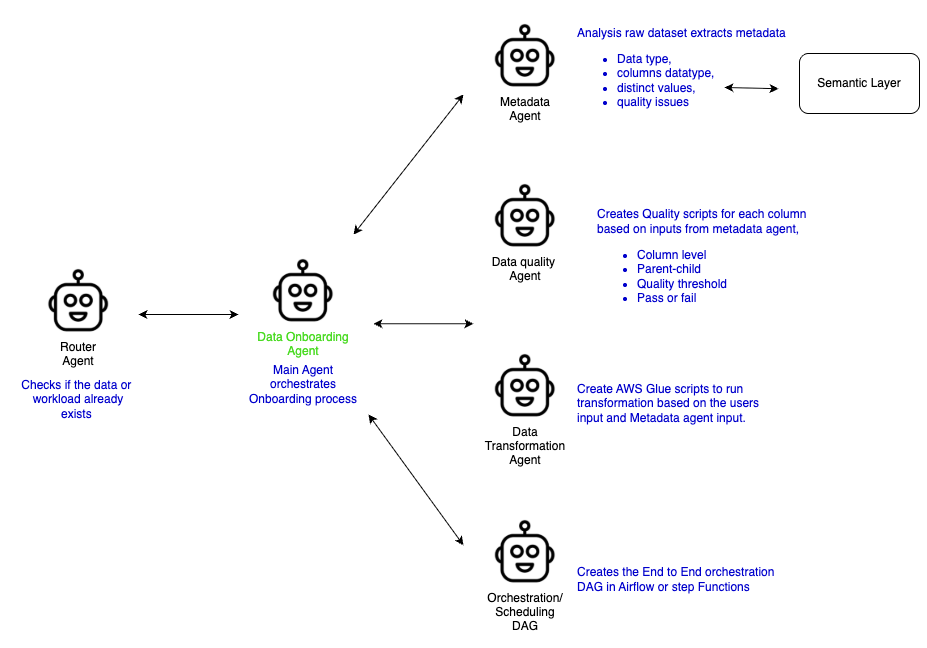
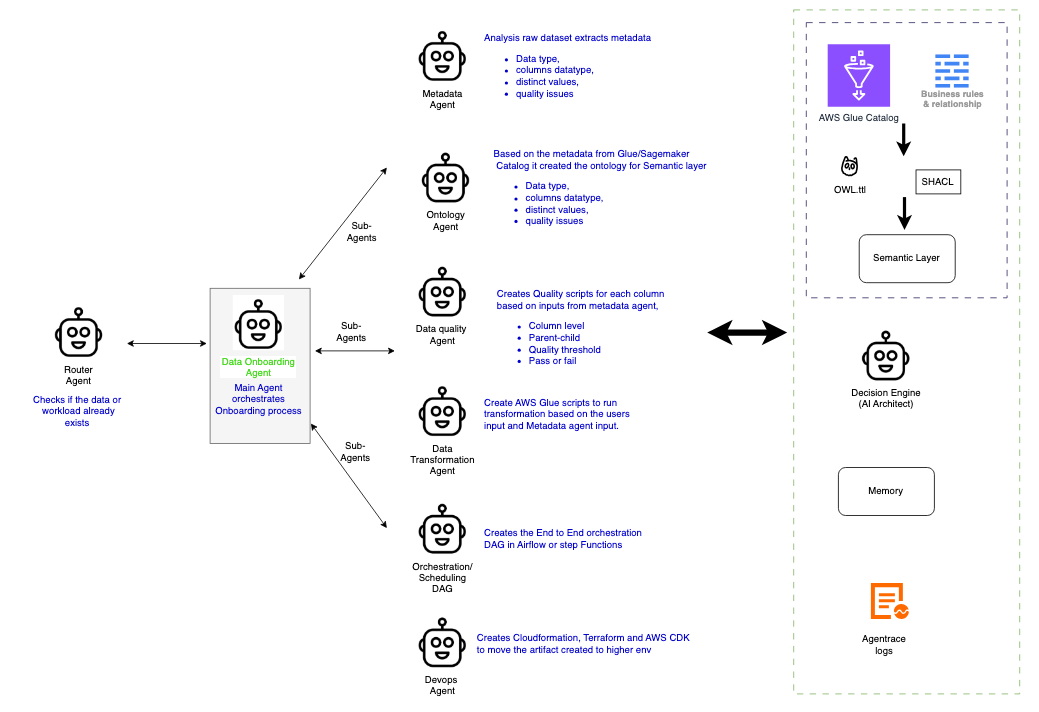
Update README inventory + swap agent workflow diagram
- Replace agent coordination diagram with updated version including DevOps
  and Ontology sub-agents and shared-services panel.
- Add claims, stocks, daily_sales to workload inventory and example table.
- Fix broken agentcore prompt paths (02-/03- numeric prefixes).
- Remove reference to non-existent data-analysis-agent directory.
- Align active-agent list in environment model with what's implemented.

diff --git a/README.md b/README.md
@@ -87,13 +87,15 @@ A user describes their data source in natural language. The **Data Onboarding Ag
 
 ![Data Onboarding Agent Workflow](docs/diagrams/data-onboarding-workflow.png)
 
-**The Data Onboarding Agent (center, green) orchestrates 4 specialized sub-agents:**
+**The Data Onboarding Agent (center) orchestrates specialized sub-agents. The Router Agent gates entry on the left; Glue Catalog, Semantic Layer (OWL/SHACL), Decision Engine, Memory, and Agentrace logs are shared services on the right.**
 
 1. **Router Agent** — Checks if the data or workload already exists in `workloads/`
 2. **Metadata Agent** — Analyzes raw dataset, extracts metadata (data types, column datatypes, distinct values, quality issues), stores business context in **Semantic Layer**
-3. **Data Quality Agent** — Creates quality scripts for each column based on metadata agent inputs (column-level checks, parent-child relationships, quality thresholds, pass/fail gates)
-4. **Data Transformation Agent** — Creates AWS Glue scripts to run transformations (Bronze→Silver→Gold) based on user input and metadata agent analysis
-5. **Orchestration/Scheduling DAG Agent** — Creates the end-to-end orchestration DAG in Airflow or Step Functions
+3. **Ontology Agent** — Induces the OWL ontology for the Semantic Layer from Glue/SageMaker Catalog metadata (data types, column datatypes, distinct values, quality issues)
+4. **Data Quality Agent** — Creates quality scripts for each column based on metadata agent inputs (column-level checks, parent-child relationships, quality thresholds, pass/fail gates)
+5. **Data Transformation Agent** — Creates AWS Glue scripts to run transformations (Bronze→Silver→Gold) based on user input and metadata agent analysis
+6. **Orchestration/Scheduling DAG Agent** — Creates the end-to-end orchestration DAG in Airflow or Step Functions
+7. **DevOps Agent** — Creates CloudFormation, Terraform, and AWS CDK to promote the generated artifacts to higher environments
 
 **Workflow:**
 ```
@@ -265,7 +267,7 @@ See [shared/prompt_intelligence/QUICKSTART.md](shared/prompt_intelligence/QUICKS
 
 | Environment | What Runs | How |
 |-------------|-----------|-----|
-| **Development** | All 4 agents (Onboarding, Analysis, Prompt Intelligence, DevOps setup) | Interactive via Claude Code CLI |
+| **Development** | Active agents: Data Onboarding, Ontology Staging, Environment Setup, Prompt Intelligence. DevOps Agent planned for Q2 2026. | Interactive via Claude Code CLI |
 | **QA/Staging** | Generated scripts/DAGs/configs only | Deployed via CI/CD (GitHub Actions, MWAA) |
 | **Production** | Generated scripts/DAGs/configs only | Promoted via CI/CD after QA approval |
 
@@ -385,8 +387,8 @@ Claude Code → stdio → 13      Claude Code / API Client
                                        → Gateway (all 13 servers)
 ```
 
-- Deploy Gateway (all 13 servers): `prompts/environment-setup-agent/deploy-agentcore-gateway.md`
-- Deploy Runtime (agent + Gateway tools): `prompts/environment-setup-agent/deploy-agentcore-runtime.md`
+- Deploy Gateway (all 13 servers): `prompts/environment-setup-agent/02-deploy-agentcore-gateway.md`
+- Deploy Runtime (agent + Gateway tools): `prompts/environment-setup-agent/03-deploy-agentcore-runtime.md`
 - Config + 13 IAM policies: `prompts/environment-setup-agent/agentcore/`
 
 See [prompts/environment-setup-agent/agentcore/README.md](prompts/environment-setup-agent/agentcore/README.md) for details.
@@ -404,7 +406,10 @@ See [prompts/environment-setup-agent/agentcore/README.md](prompts/environment-se
 │   ├── product_inventory/            # Example: inventory with quality checks
 │   ├── us_mutual_funds_etf/          # Example: mutual funds (most complete)
 │   ├── healthcare_patients/          # Example: HIPAA compliance (deployed to MWAA)
-│   └── financial_portfolios/         # Example: SOX compliance (deployed to MWAA)
+│   ├── financial_portfolios/         # Example: SOX compliance (deployed to MWAA)
+│   ├── claims/                       # Example: HIPAA claims (deployed to MWAA, CloudTrail audit)
+│   ├── stocks/                       # Example: stocks pipeline
+│   └── daily_sales/                  # Example: daily sales aggregation
 │
 ├── shared/                           # Reusable code across workloads
 │   ├── memory/                       # Per-workload persistent memory system
@@ -435,7 +440,6 @@ See [prompts/environment-setup-agent/agentcore/README.md](prompts/environment-se
 ├── prompts/                          # Agent-based prompt organization
 │   ├── environment-setup-agent/      # One-time AWS infrastructure setup (includes agentcore/)
 │   ├── data-onboarding-agent/        # Bronze→Silver→Gold pipeline creation (main workflow)
-│   ├── data-analysis-agent/          # Dashboards, queries via semantic layer
 │   ├── devops-agent/                 # CI/CD, monitoring (coming soon)
 │   └── examples/                     # Demo data generation helpers
 │
@@ -702,6 +706,9 @@ Automatically validates all generated code BEFORE deployment to catch 95% of iss
 | `us_mutual_funds_etf` | 321 + 44* | Deployed | PII detection, QuickSight dashboards, MWAA DAG |
 | `financial_portfolios` | 200+ | Deployed | SOX compliance, 7 Iceberg tables, MWAA DAG |
 | `healthcare_patients` | Generated | Deployed | HIPAA compliance, PHI masking, TBAC, MWAA DAG |
+| `claims` | Generated | Deployed | HIPAA compliance, PHI masking, MWAA DAG, CloudTrail audit |
+| `stocks` | Generated | Local | Stocks pipeline |
+| `daily_sales` | Generated | Local | Daily sales aggregation |
 
 *Some tests require PySpark (Java) or pipeline output to be generated first. See [Running Tests](docs/running-tests.md).
 
